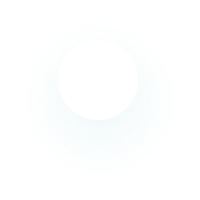
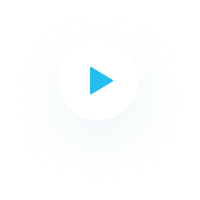
update-1v

Changed region(s): [[0.45, 0.33, 0.57, 0.48]]

diff --git a/index.html b/index.html
@@ -8,6 +8,93 @@
     <link rel="stylesheet" href="css/style.css">
 </head>
 <body>
-    
+    <header>
+        <div class="all-header">
+            <div class="menu">
+                <div class="logo">
+                    <img src="images/logo.png" alt="">
+                </div>
+                <nav>
+                    <ul>
+                        <li><a href="#">Home</a></li>
+                        <li><a href="#">Event</a></li>
+                        <li><a href="#">About</a></li>
+                        <li><a href="#">Blog</a></li>
+                        <li><a href="#">Contact</a></li>
+                    </ul>
+                </nav>
+                <div class="contact-btn">
+                    <img src="images/call.png" alt="">
+                    <p>+1 (000) 000 000</p>
+                </div>
+            </div>
+            <div class="hero">
+                <div class="hero-text">
+                    <h1 class="hero-title">
+                        Life is a journey <span class="hero-secend-title">
+                            , not a destination
+                        </span>
+                    </h1>
+                    <span class="hero-third-title">
+                        Let’s start your journey with us, your dream will come true...
+                    </span>
+                    <div class="hero-btn">
+                        <button class="btn">Explore Destinations</button>
+                        <div class="watch">
+                            <img src="images/play.png" alt="">
+                            <p>Watch how it works</p>
+                        </div>
+                    </div>
+                </div>
+                <div class="hero-img">
+                    <img src="images/header-img.png" alt="">
+                </div>
+            </div>
+        </div>
+    </header>
+    <div class="container">
+        <section class="promotional-tour">
+            <h1 class="tour-title">
+                Check Our Best <span class="tour-second-title">Promotional Tour</span>
+            </h1>
+            <p class="promotional-tour-details">
+                Lorem Ipsum is simply dummy text of the printing and typesetting <br> industry. Lorem Ipsum has been the industry's standard dummy text <br>ever since the 1500s, when an unknown printer took a galley of type <br>and scrambled it to make a type specimen book.
+            </p>
+
+            <div class="promotional-tour-grid">
+                <div class="promotional-tour-grid-box">
+                    <div class="tour-grid-box-img">
+                        <img src="images/beiging.png" alt="">
+                    </div>
+                    <div class="tour-grid-box-text">
+                        <p>
+                            Beijing
+                        </p>
+                    </div>
+                </div>
+                <div class="promotional-tour-grid-box">
+                    <div class="tour-grid-box-img">
+                        <img src="images/turkey.png" alt="">
+                    </div>
+                    <div class="tour-grid-box-text">
+                        <p>
+                            Turkey
+                        </p>
+                    </div>
+                </div>
+                <div class="promotional-tour-grid-box">
+                    <div class="tour-grid-box-img">
+                        <img src="images/pakisthan.png" alt="">
+                    </div>
+                    <div class="tour-grid-box-text">
+                        <p>
+                            Pakistan
+                        </p>
+                    </div>
+                </div>
+            </div>
+
+        </section>
+    </div>
 </body>
 </html>

diff --git a/css/style.css b/css/style.css
@@ -7,3 +7,119 @@
 body{
     font-family: 'Nunito Sans', sans-serif;
 }
+header{
+    background-color: #F0C53E;
+    height: 90vh;
+    width: 100%;
+}
+.all-header{
+    width: 1152px;
+    margin: auto;
+}
+.menu{
+    display: flex;
+    justify-content: space-between;
+    align-items: center;
+    padding-top: 10px;
+}
+nav ul li{
+    display: inline;
+    margin-right: 35px;
+}
+nav ul li a{
+    text-decoration: none;
+    color: black;
+    font-weight: bold;
+}
+.contact-btn{
+    background-color: #B25A59;
+    display: flex;
+    justify-content: center;
+    align-items: center;
+    padding: 8px 20px;
+    border-radius: 50px;
+    color: white;
+}
+.contact-btn p{
+    margin-left: 10px;
+}
+.hero{
+    display: flex;
+    justify-content: center;
+    align-items: center;
+}
+.hero-text{
+    width: 50%;
+}
+.hero-img{
+    display: flex;
+    align-items: center;
+    justify-content: center;
+}
+.hero-img img{
+    width: 70%;
+}
+.hero-title{
+    color: #7F2736;
+    margin-bottom: 46px;
+}
+.hero-secend-title{
+    color: #2C2D32;
+}
+.hero-third-title{
+    color: #464646;
+
+}
+.hero-btn{
+    display: flex;
+    align-items: center;
+}
+.watch{
+    display: flex;
+    align-items: center;
+    margin-top: 50px;
+}
+.watch img{
+    width: 40%;
+}
+.btn{
+    background-color: #B25A59;
+    border: 3px solid transparent;
+    color: white;
+    font-weight: bold;
+    width: 200px;
+    height: 45px;
+    border-radius: 50px;
+}
+.container{
+    width: 1152px;
+    margin: auto;
+}
+.promotional-tour{
+    margin-top: 60px;
+}
+.tour-title{
+    text-align: center;
+    margin-bottom: 17px;
+    color: #7F2736;
+}
+.tour-second-title{
+    color: #2C2D32;
+}
+.promotional-tour-details{
+    text-align: center;
+}
+.promotional-tour-grid{
+    display: grid;
+    grid-template-columns: repeat(3, 1fr);
+}
+.tour-grid-box-img img{
+    width: 100%;
+    
+}
+.tour-grid-box-text{
+    padding: 0 41px;
+    color: #7F2736;
+    font-weight: bold;
+    text-align: center;
+}
